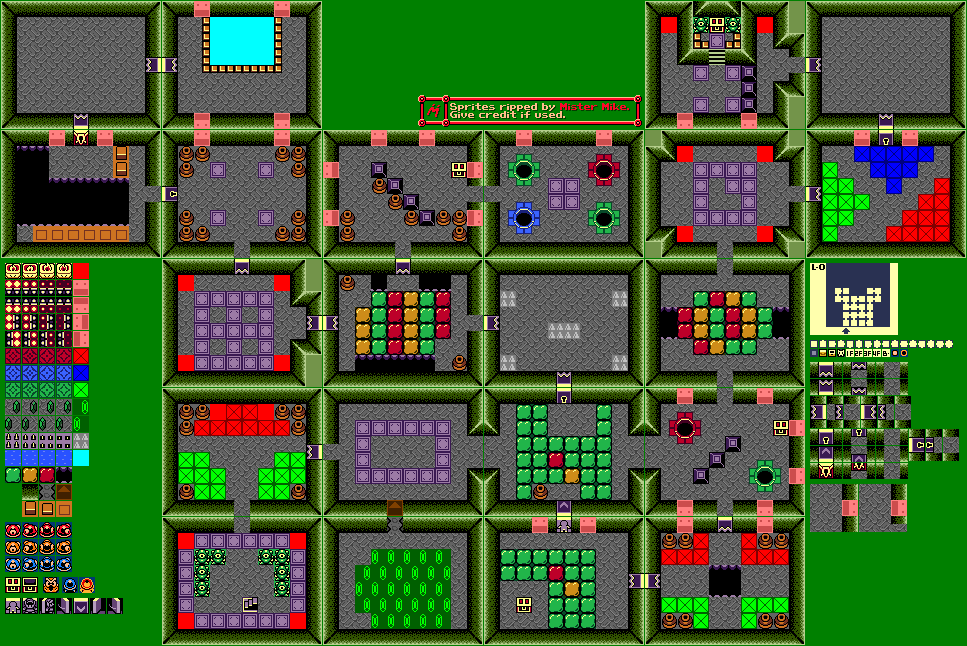
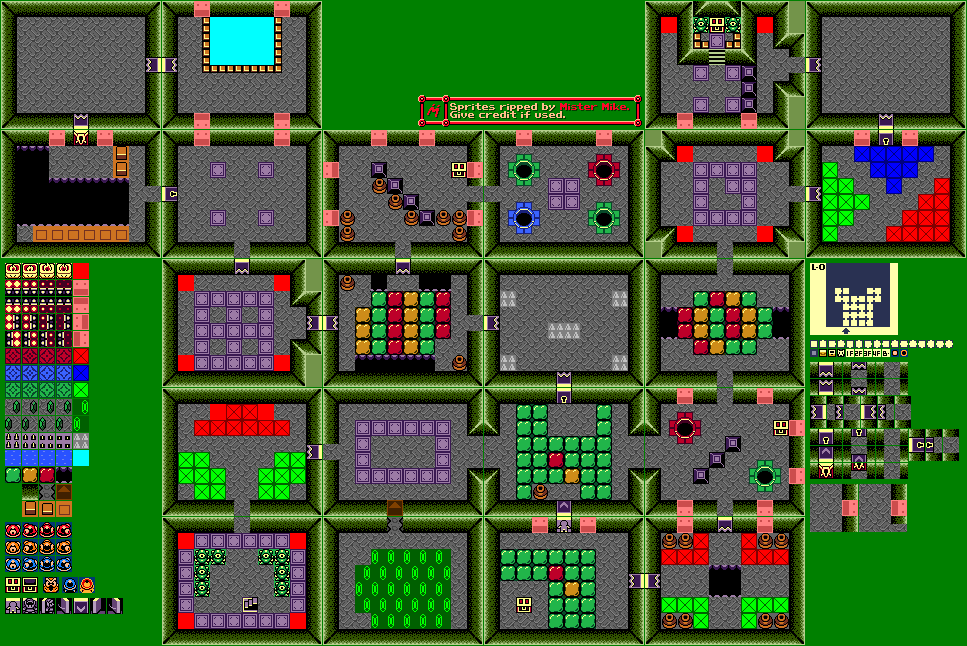
mes walls i objectes

diff --git a/enviorment_dungeon.js b/enviorment_dungeon.js
@@ -33,9 +33,41 @@ const dungeon_tile3 = [new BackgroundElement(0, 0, 1, 1, "ground", true, texture
 const dungeon_tile4 = [new BackgroundElement(0, 0, 1, 1, "ground", true, texture=textures.dungeon1, color="black", 
     drawing_settings={sx: 480+4, sy: 1, sWidth: 160, sHeight: 128})];
 const dungeon_tile5 = [new BackgroundElement(0, 0, 1, 1, "ground", true, texture=textures.dungeon1, color="black", 
-    drawing_settings={sx: 640+5, sy: 1, sWidth: 160, sHeight: 128})];
+    drawing_settings={sx: 640+5, sy: 1, sWidth: 160, sHeight: 128}),
+    new InvisibleWall(4.5/10, 0/8, 10/10, 1/8 ), // top
+    new InvisibleWall(4.5/10, 7/8, 10/10, 1/8 ), // bottom
+    new InvisibleWall(0/10, 3.5/8, 1/10, 8/8 ), // left
+
+    new InvisibleWall(8/10, 2/8, 1/10, 1/8 ), // right
+    new InvisibleWall(8/10, 1/8, 1/10, 1/8 ), // right
+    new InvisibleWall(9/10, 2/8, 1/10, 1/8 ), // right
+    new InvisibleWall(9/10, 2.5/8, 1/10, 1/8 ), // right
+    new InvisibleWall(9/10, 4.5/8, 1/10, 1/8 ), // right
+    new InvisibleWall(8/10, 5/8, 1/10, 1/8 ), // right
+    new InvisibleWall(8/10, 6/8, 1/10, 1/8 ), // right
+
+    new InvisibleWall(2/10, 2/8, 1/10, 1/8 ), // center
+    new InvisibleWall(2/10, 3/8, 1/10, 1/8 ), // center
+    new InvisibleWall(3/10, 3/8, 1/10, 1/8 ), // center
+    new InvisibleWall(5/10, 3/8, 1/10, 1/8 ), // center
+    new InvisibleWall(6/10, 3/8, 1/10, 1/8 ), // center
+    new InvisibleWall(6/10, 2/8, 1/10, 1/8 ), // center
+    new InvisibleWall(5/10, 2/8, 1/10, 1/8 ), // center
+    new InvisibleWall(3/10, 2/8, 1/10, 1/8 ), // center
+];
 const dungeon_tile6 = [new BackgroundElement(0, 0, 1, 1, "ground", true, texture=textures.dungeon1, color="black", 
-    drawing_settings={sx: 800+6, sy: 1, sWidth: 160, sHeight: 128})];
+    drawing_settings={sx: 800+6, sy: 1, sWidth: 160, sHeight: 128}),
+
+    new InvisibleWall(0/10, 0/8, 20/10, 1/8 ),
+
+    new InvisibleWall(0/10, 7/8, 8/10, 1/8 ),
+    new InvisibleWall(9/10, 7/8, 8/10, 1/8 ),
+
+    new InvisibleWall(9/10, 3.5/8, 1/10, 8/8 ),
+
+    new InvisibleWall(0/10, 0/8, 1/10, 6/8 ),
+    new InvisibleWall(0/10, 7/8, 1/10, 6/8 ),
+];
 // ROW2
 const dungeon_tile7 = [new BackgroundElement(0, 0, 1, 1, "ground", true, texture=textures.dungeon1, color="black",
     drawing_settings={sx: 0+1, sy: 128+2, sWidth: 160, sHeight: 128})];
@@ -46,9 +78,29 @@ const dungeon_tile9 = [new BackgroundElement(0, 0, 1, 1, "ground", true, texture
 const dungeon_tile10 = [new BackgroundElement(0, 0, 1, 1, "ground", true, texture=textures.dungeon1, color="black",
     drawing_settings={sx: 480+4, sy: 128+2, sWidth: 160, sHeight: 128})];
 const dungeon_tile11 = [new BackgroundElement(0, 0, 1, 1, "ground", true, texture=textures.dungeon1, color="black",
-    drawing_settings={sx: 640+5, sy: 128+2, sWidth: 160, sHeight: 128})];   
+    drawing_settings={sx: 640+5, sy: 128+2, sWidth: 160, sHeight: 128}),
+    new InvisibleWall(0/10, 1/8, 1/10, 8/8 ),
+    new InvisibleWall(9/10, 1/8, 1/10, 4/8 ),
+    new InvisibleWall(0/10, 6/8, 1/10, 3/8 ),
+    new InvisibleWall(9/10, 6/8, 1/10, 4/8 ),
+
+    new InvisibleWall(2/10, 0/8, 6/10, 1/8 ),
+    new InvisibleWall(2/10, 7/8, 4/10, 1/8 ),
+    new InvisibleWall(7/10, 0/8, 4/10, 1/8 ),
+    new InvisibleWall(7/10, 7/8, 4/10, 1/8 ),
+];   
 const dungeon_tile12 = [new BackgroundElement(0, 0, 1, 1, "ground", true, texture=textures.dungeon1, color="black",
-    drawing_settings={sx: 800+6, sy: 128+2, sWidth: 160, sHeight: 128})];
+    drawing_settings={sx: 800+6, sy: 128+2, sWidth: 160, sHeight: 128}),
+    new InvisibleWall(0/10, 1/8, 1/10, 4/8 ),
+    new InvisibleWall(9/10, 1/8, 1/10, 6/8 ),
+    new InvisibleWall(0/10, 6/8, 1/10, 4/8 ),
+    new InvisibleWall(9/10, 6/8, 1/10, 4/8 ),
+
+    new InvisibleWall(2/10, 0/8, 4/10, 1/8 ),
+    new InvisibleWall(2/10, 7/8, 5/10, 1/8 ),
+    new InvisibleWall(7/10, 0/8, 4/10, 1/8 ),
+    new InvisibleWall(7/10, 7/8, 5/10, 1/8 ),
+];
 // ROW3
 const dungeon_tile13 = [new BackgroundElement(0, 0, 1, 1, "ground", true, texture=textures.dungeon1, color="black",    
     drawing_settings={sx: 0+1, sy: 256+3, sWidth: 160, sHeight: 128})];
@@ -59,20 +111,102 @@ const dungeon_tile15 = [new BackgroundElement(0, 0, 1, 1, "ground", true, textur
 const dungeon_tile16 = [new BackgroundElement(0, 0, 1, 1, "ground", true, texture=textures.dungeon1, color="black",
     drawing_settings={sx: 480+4, sy: 256+3, sWidth: 160, sHeight: 128})];
 const dungeon_tile17 = [new BackgroundElement(0, 0, 1, 1, "ground", true, texture=textures.dungeon1, color="black",
-    drawing_settings={sx: 640+5, sy: 256+3, sWidth: 160, sHeight: 128})];
+    drawing_settings={sx: 640+5, sy: 256+3, sWidth: 160, sHeight: 128}),
+    new InvisibleWall(0/10, 1/8, 1/10, 8/8 ),
+    new InvisibleWall(9/10, 1/8, 1/10, 8/8 ),
+    new InvisibleWall(0/10, 6/8, 1/10, 3/8 ),
+    new InvisibleWall(9/10, 6/8, 1/10, 3/8 ),
+
+    new InvisibleWall(2/10, 0/8, 4/10, 1/8 ),
+    new InvisibleWall(2/10, 7/8, 4/10, 1/8 ),
+    new InvisibleWall(7/10, 0/8, 4/10, 1/8 ),
+    new InvisibleWall(7/10, 7/8, 4/10, 1/8 ),
+];
 const dungeon_tile18 = [new BackgroundElement(0, 0, 1, 1, "ground", true, texture=textures.dungeon1, color="black",
     drawing_settings={sx: 800+6, sy: 256+3, sWidth: 160, sHeight: 128})];
 // ROW4
 const dungeon_tile19 = [new BackgroundElement(0, 0, 1, 1, "ground", true, texture=textures.dungeon1, color="black",
     drawing_settings={sx: 0+1, sy: 384+4, sWidth: 160, sHeight: 128})];
 const dungeon_tile20 = [new BackgroundElement(0, 0, 1, 1, "ground", true, texture=textures.dungeon1, color="black",
-    drawing_settings={sx: 160+2, sy: 384+4, sWidth: 160, sHeight: 128})];
+    drawing_settings={sx: 160+2, sy: 384+4, sWidth: 160, sHeight: 128}),
+    new InvisibleWall(0.0, 3.5/8, 1/10, 8/8 ),
+    new InvisibleWall(9/10, 1/8, 1/10, 4/8 ),
+    new InvisibleWall(9/10, 6/8, 1/10, 4/8 ),
+    new InvisibleWall(4.5/10, 0/8, 10/10, 1/8 ),
+    new InvisibleWall(0/10, 7/8, 8/10, 1/8 ),
+    new InvisibleWall(9/10, 7/8, 8/10, 1/8 ),
+
+    createAnimatedFloorGreen(2/10, 6/8),
+    createAnimatedFloorGreen(3/10, 6/8),
+    createAnimatedFloorGreen(3/10, 5/8),
+    createAnimatedFloorGreen(2/10, 5/8),
+    createAnimatedFloorGreen(1/10, 5/8),
+    createAnimatedFloorGreen(1/10, 4/8),
+    createAnimatedFloorGreen(2/10, 4/8),
+
+    createAnimatedFloorGreen(7/10, 4/8),
+    createAnimatedFloorGreen(8/10, 4/8),
+    createAnimatedFloorGreen(7/10, 5/8),
+    createAnimatedFloorGreen(8/10, 5/8),
+    createAnimatedFloorGreen(6/10, 5/8),
+    createAnimatedFloorGreen(6/10, 6/8),
+    createAnimatedFloorGreen(7/10, 6/8),
+
+    createAnimatedFloorRed(2/10, 2/8),
+    createAnimatedFloorRed(3/10, 2/8),
+    createAnimatedFloorRed(4/10, 2/8),
+    createAnimatedFloorRed(5/10, 2/8),
+    createAnimatedFloorRed(6/10, 2/8),
+    createAnimatedFloorRed(7/10, 2/8),
+    createAnimatedFloorRed(4/10, 1/8),
+    createAnimatedFloorRed(5/10, 1/8),
+
+    createFirePlace(3/10, 1/8),
+    createFirePlace(6/10, 1/8),
+
+    createVase(1/10, 1/8),
+    createVase(2/10, 1/8),
+    createVase(1/10, 2/8),
+    createVase(8/10, 1/8),
+    createVase(7/10, 1/8),
+    createVase(8/10, 2/8),
+    createVase(1/10, 6/8),
+    createVase(8/10, 6/8),
+];
 const dungeon_tile21 = [new BackgroundElement(0, 0, 1, 1, "ground", true, texture=textures.dungeon1, color="black",
-    drawing_settings={sx: 320+3, sy: 384+4, sWidth: 160, sHeight: 128})];
+    drawing_settings={sx: 320+3, sy: 384+4, sWidth: 160, sHeight: 128}),
+    new InvisibleWall(0.0, 1/8, 1/10, 4/8 ),
+    new InvisibleWall(0.0, 6/8, 1/10, 4/8 ),
+    new InvisibleWall(4.5/10, 0/8, 10/10, 1/8 ),
+    new InvisibleWall(0/10, 7/8, 7/10, 1/8 ),
+    new InvisibleWall(8/10, 7/8, 7/10, 1/8 ),
+    new InvisibleWall(9/10, 1/8, 1/10, 3/8 ),
+    new InvisibleWall(9/10, 6/8, 1/10, 3/8 ),
+];
 const dungeon_tile22 = [new BackgroundElement(0, 0, 1, 1, "ground", true, texture=textures.dungeon1, color="black",
-    drawing_settings={sx: 480+4, sy: 384+4, sWidth: 160, sHeight: 128})];
+    drawing_settings={sx: 480+4, sy: 384+4, sWidth: 160, sHeight: 128}),
+    new InvisibleWall(0/10, 1/8, 1/10, 3/8 ),
+    new InvisibleWall(9/10, 1/8, 1/10, 3/8 ),
+    new InvisibleWall(0/10, 6/8, 1/10, 3/8 ),
+    new InvisibleWall(9/10, 6/8, 1/10, 3/8 ),
+
+    new InvisibleWall(2/10, 0/8, 4/10, 1/8 ),
+    new InvisibleWall(2/10, 7/8, 4/10, 1/8 ),
+    new InvisibleWall(7/10, 0/8, 4/10, 1/8 ),
+    new InvisibleWall(7/10, 7/8, 4/10, 1/8 ),
+];
 const dungeon_tile23 = [new BackgroundElement(0, 0, 1, 1, "ground", true, texture=textures.dungeon1, color="black",
-    drawing_settings={sx: 640+5, sy: 384+4, sWidth: 160, sHeight: 128})];
+    drawing_settings={sx: 640+5, sy: 384+4, sWidth: 160, sHeight: 128}),
+    new InvisibleWall(0/10, 1/8, 1/10, 3/8 ),
+    new InvisibleWall(9/10, 1/8, 1/10, 8/8 ),
+    new InvisibleWall(0/10, 6/8, 1/10, 3/8 ),
+    new InvisibleWall(9/10, 6/8, 1/10, 3/8 ),
+
+    new InvisibleWall(2/10, 0/8, 4/10, 1/8 ),
+    new InvisibleWall(2/10, 7/8, 4/10, 1/8 ),
+    new InvisibleWall(7/10, 0/8, 4/10, 1/8 ),
+    new InvisibleWall(7/10, 7/8, 4/10, 1/8 ),
+];
 const dungeon_tile24 = [new BackgroundElement(0, 0, 1, 1, "ground", true, texture=textures.dungeon1, color="black",
     drawing_settings={sx: 800+6, sy: 384+4, sWidth: 160, sHeight: 128})];
 // ROW5
@@ -90,6 +224,15 @@ const dungeon_tile26 = [new BackgroundElement(0, 0, 1, 1, "ground", true, textur
     new InvisibleWall(2/10, 0/8, 4/10, 1/8 ),
     new InvisibleWall(7/10, 0/8, 4/10, 1/8 ),
     new InvisibleWall(4.5/10, 7/8, 10/10, 1/8 ),
+
+    new InvisibleWall(2/10, 2/8, 1/10, 1/8 ),
+    new InvisibleWall(2/10, 3/8, 1/10, 1/8 ),
+    new InvisibleWall(2/10, 4/8, 1/10, 1/8 ),
+    new InvisibleWall(3/10, 2/8, 1/10, 1/8 ),
+    new InvisibleWall(6/10, 2/8, 1/10, 1/8 ),
+    new InvisibleWall(7/10, 2/8, 1/10, 1/8 ),
+    new InvisibleWall(7/10, 3/8, 1/10, 1/8 ),
+    new InvisibleWall(7/10, 4/8, 1/10, 1/8 ),
 ];
 const dungeon_tile27 = [new BackgroundElement(0, 0, 1, 1, "ground", true, texture=textures.dungeon1, color="black",
     drawing_settings={sx: 320+3, sy: 512+5, sWidth: 160, sHeight: 128})];

diff --git a/enviorment.js b/enviorment.js
@@ -327,6 +327,11 @@ class InvisibleWall extends BackgroundElement {
     }
 }
 
+function createVase(x, y){
+    let element =  new BackgroundElement(x, y, 1/10, 1/8, "vase", false, texture = textures.vase, color = null, drawing_settings={sx:0, sy:0, sWidth:16, sHeight:16});
+    element.boundingBox = new BoundingBox(x+0.5/10, y+0.5/8, 1/10, 1/8); // Bounding box for collision detection
+    return element; // Return the vase element
+}
 
 function createFirePlace(x, y) {
     let element =  new BackgroundElement(x, y, 1/10, 1/8, "fireplace", false, texture = textures.fireplace, color = null, drawing_settings={sx:0, sy:0, sWidth:16, sHeight:16});
@@ -339,13 +344,13 @@ function createFirePlace(x, y) {
         }
     
         this.animationTimer += deltaTime;
-    
-        const frameDuration = 300; // ms per frame (adjust as needed)
-    
-        if (this.animationTimer >= frameDuration) {
-            this.animationTimer -= frameDuration; // subtract instead of reset to preserve leftover time
+        
+
+        const frameDuration = {0:1000, 1:3000, 2:1000, 3:1000}; // ms per frame (adjust as needed)
+        
+        if (this.animationTimer >= frameDuration[this.animationFrame]) {
+            this.animationTimer -= frameDuration[this.animationFrame]; // subtract instead of reset to preserve leftover time
             this.animationFrame = (this.animationFrame + 1) % 4;
-    
             switch (this.animationFrame) {
                 case 0:
                     this.drawing_settings = { sx: 0, sy: 0, sWidth: 16, sHeight: 16 };
@@ -364,6 +369,52 @@ function createFirePlace(x, y) {
     };
     
     return element; // Return the fireplace element
+}
+
+function createAnimatedFloor(x, y, texture) {
+    let element =  new BackgroundElement(x, y, 1/10, 1/8, "animated_floor", true, texture = texture, color = null, drawing_settings={sx:0, sy:0, sWidth:16, sHeight:16});
+
+    element.update = function(deltaTime) {
+        if (this.animationTimer === undefined) {
+            this.animationTimer = 0;
+            this.animationFrame = 0;
+        }
+    
+        this.animationTimer += deltaTime;
+        
+
+        const frameDuration = 250; // ms per frame (adjust as needed)
+        
+        if (this.animationTimer >= frameDuration) {
+            this.animationTimer -= frameDuration; // subtract instead of reset to preserve leftover time
+            this.animationFrame = (this.animationFrame + 1) % 4;
+            switch (this.animationFrame) {
+                case 0:
+                    this.drawing_settings = { sx: 0, sy: 0, sWidth: 16, sHeight: 16 };
+                    break;
+                case 1:
+                    this.drawing_settings = { sx: 16, sy: 0, sWidth: 16, sHeight: 16 };
+                    break;
+                case 2:
+                    this.drawing_settings = { sx: 32, sy: 0, sWidth: 16, sHeight: 16 };
+                    break;
+                case 3:
+                    this.drawing_settings = { sx: 48, sy: 0, sWidth: 16, sHeight: 16 };
+                    break;
+            }
+        }
+    };
+    return element; // Return the animated floor element
+}
+
+function createAnimatedFloorRed(x, y) {
+    return createAnimatedFloor(x, y, textures.red_floor); // Create an animated floor with red texture
+}
+function createAnimatedFloorBlue(x, y) {
+    return createAnimatedFloor(x, y, textures.blue_floor); // Create an animated floor with blue texture
+}
+function createAnimatedFloorGreen(x, y) {
+    return createAnimatedFloor(x, y, textures.green_floor); // Create an animated floor with green texture
 }
 
 /**

diff --git a/scene.js b/scene.js
@@ -29,12 +29,12 @@ constructor()
 	this.player = new Player(0.5, 0.5, 1/10, 1/8);
 	this.player.scene = this; // Set the scene reference in the player object
 	
-	this.levelID = 103; // Current level ID
+	this.levelID = 25; // Current level ID
 
 	// level variables
 	this.switching = 0; // 0, 1=left, 2=right, 3=up, 4=down
 	this.screen_switch_time = 0.7; // seconds
-	this.mapID = "overworld"; // Current map ID
+	this.mapID = "dungeon1"; // Current map ID
 	this.levelContent = new Array().concat(world.maps[this.mapID].getLevelElements(this.levelID)); // Current level content
 	this.tmpLevelContent = new Array(); // Temporary level content for transitions
 

diff --git a/texture.js b/texture.js
@@ -33,4 +33,8 @@ const textures = {
 	tombstone: new Texture("imgs/tombstone.png"),
 	stairs_dirt: new Texture("imgs/stairs_dirt.png"),
 	fireplace: new Texture("imgs/fireplace.png"),
+	red_floor: new Texture("imgs/animated_floor_red.png"),
+	blue_floor: new Texture("imgs/animated_floor_blue.png"),
+	green_floor: new Texture("imgs/animated_floor_green.png"),
+	vase: new Texture("imgs/vase.png"),
 }
